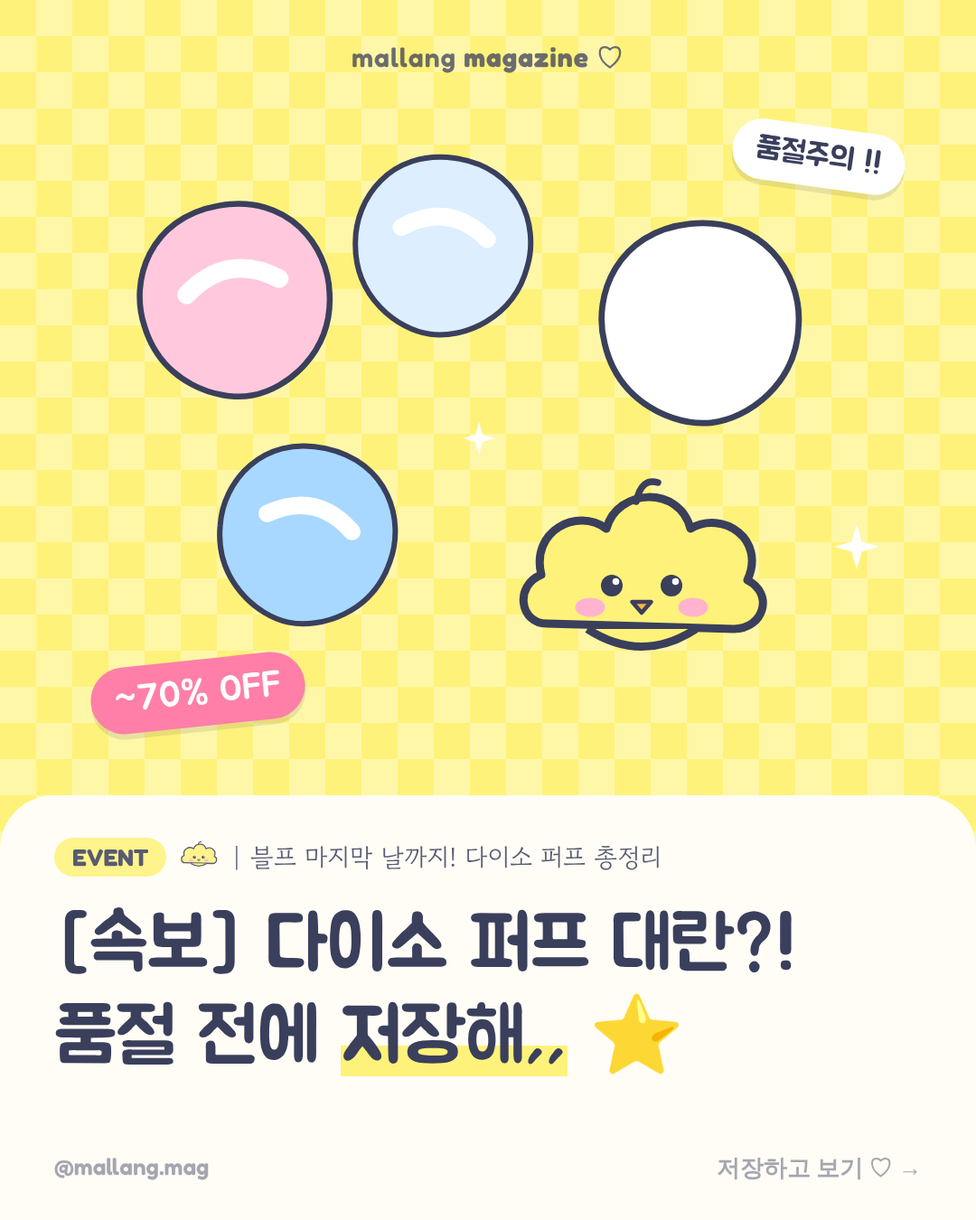
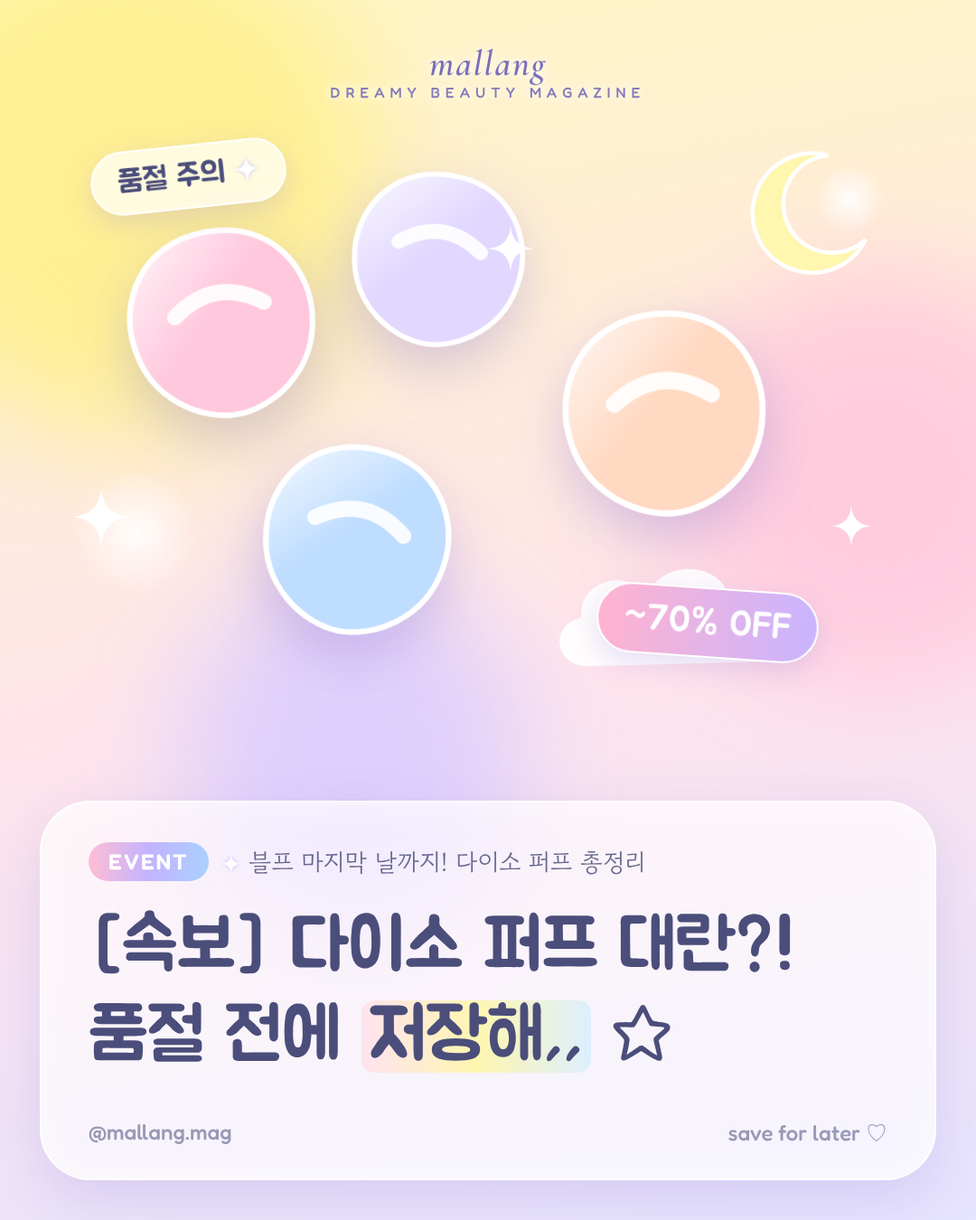
Redesign card news mockups with a dreamy pastel style
Claude-Session: https://claude.ai/code/session_019qCDgrEDAYBakuzNPxY3YF

diff --git a/cute-mag/covers.html b/cute-mag/covers.html
@@ -1,165 +1,180 @@
 <!doctype html>
 <html lang="ko"><head><meta charset="utf-8">
-<link href="https://fonts.googleapis.com/css2?family=Jua&family=Gowun+Dodum&family=Fredoka:wght@500;600;700&display=swap" rel="stylesheet">
+<link href="https://fonts.googleapis.com/css2?family=Jua&family=Gowun+Dodum&family=Cormorant+Garamond:ital,wght@1,500;1,600&family=Fredoka:wght@500;600&display=swap" rel="stylesheet">
 <style>
-:root{--lemon:#FFF27A;--pink:#FFC8DD;--baby:#DCEEFF;--sky:#A8D8FF;--cream:#FFFDF6;--ink:#3A3F5C;}
+:root{--lemon:#FFF27A;--pink:#FFC8DD;--baby:#DCEEFF;--sky:#A8D8FF;--ink:#4B4E7A;--lilac:#D9CCFF}
 *{box-sizing:border-box;margin:0;padding:0}
 body{background:#eee;font-family:'Gowun Dodum',sans-serif;color:var(--ink)}
 .card{width:1080px;height:1350px;position:relative;overflow:hidden;margin-bottom:20px}
-.logo{position:absolute;top:44px;left:0;right:0;text-align:center;font-family:'Fredoka';font-weight:600;font-size:30px;letter-spacing:1px;color:var(--ink);opacity:.75}
-.logo b{font-weight:700}
-.stage{position:absolute;top:110px;left:40px;right:40px;height:760px}
-.bottom{position:absolute;left:0;right:0;bottom:0;height:470px;background:var(--cream);padding:46px 60px 0;border-top-left-radius:60px;border-top-right-radius:60px}
-.meta{display:flex;align-items:center;gap:14px;font-size:28px;margin-bottom:26px;opacity:.85}
-.tag{font-family:'Fredoka';font-weight:700;font-size:26px;padding:6px 20px;border-radius:999px;color:var(--ink)}
-.mini{width:44px;height:44px}
-h1{font-family:'Jua';font-weight:400;font-size:84px;line-height:1.22;letter-spacing:-1px}
-h1 .hl{background:linear-gradient(transparent 60%,var(--lemon) 60%)}
-.deco{position:absolute;font-family:'Fredoka'}
-.dots{background-image:radial-gradient(rgba(255,255,255,.75) 3px,transparent 3.5px);background-size:44px 44px}
-.check{background-image:linear-gradient(45deg,rgba(255,255,255,.35) 25%,transparent 25%,transparent 75%,rgba(255,255,255,.35) 75%),linear-gradient(45deg,rgba(255,255,255,.35) 25%,transparent 25%,transparent 75%,rgba(255,255,255,.35) 75%);background-size:80px 80px;background-position:0 0,40px 40px}
-.sticker{position:absolute;background:#fff;border-radius:999px;padding:12px 26px;font-family:'Jua';font-size:34px;box-shadow:0 6px 0 rgba(58,63,92,.12)}
-.ph{position:absolute;bottom:30px;right:40px;font-size:20px;opacity:.45}
-.board{width:1080px;height:1350px;background:var(--cream);padding:70px;position:relative}
-.board h2{font-family:'Jua';font-size:64px;margin-bottom:10px}
-.board p.sub{font-size:28px;opacity:.7;margin-bottom:50px}
-.sw{display:grid;grid-template-columns:repeat(3,1fr);gap:26px;margin-bottom:60px}
-.sw div{height:190px;border-radius:36px;padding:24px;display:flex;flex-direction:column;justify-content:flex-end;font-size:26px;border:2px solid rgba(58,63,92,.08)}
-.sw b{font-family:'Jua';font-weight:400;font-size:34px}
-.hls{display:flex;justify-content:space-between}
-.hl-i{text-align:center;font-size:28px}
-.hl-i .ring{width:170px;height:170px;border-radius:50%;border:5px solid #e6e6ee;display:flex;align-items:center;justify-content:center;margin-bottom:14px}
-.hl-i .in{width:146px;height:146px;border-radius:50%;display:flex;align-items:center;justify-content:center}
+.orb{position:absolute;border-radius:50%;filter:blur(60px);opacity:.85}
+.bokeh{position:absolute;border-radius:50%;background:radial-gradient(circle,rgba(255,255,255,.9),rgba(255,255,255,0) 70%)}
+.logo{position:absolute;top:46px;left:0;right:0;text-align:center;font-family:'Cormorant Garamond';font-style:italic;font-weight:600;font-size:40px;letter-spacing:2px;color:#7A6FB8;text-shadow:0 0 20px #fff,0 0 8px #fff}
+.logo small{display:block;font-family:'Fredoka';font-style:normal;font-weight:500;font-size:16px;letter-spacing:6px;opacity:.9;margin-top:-2px}
+.stage{position:absolute;top:140px;left:40px;right:40px;height:720px}
+.stage svg.p{position:absolute;filter:drop-shadow(0 24px 30px rgba(140,120,210,.35))}
+.glass{position:absolute;left:44px;right:44px;bottom:44px;height:420px;border-radius:56px;background:rgba(255,255,255,.58);backdrop-filter:blur(24px);border:2px solid rgba(255,255,255,.9);box-shadow:0 20px 60px rgba(150,130,220,.25), inset 0 0 40px rgba(255,255,255,.6);padding:44px 52px}
+.meta{display:flex;align-items:center;gap:14px;font-size:27px;margin-bottom:24px;opacity:.85}
+.tag{font-family:'Fredoka';font-weight:600;font-size:24px;letter-spacing:2px;padding:7px 22px;border-radius:999px;color:#fff;background:linear-gradient(90deg,#FFB3CF,#B9A8FF,#9CCBFF)}
+h1{font-family:'Jua';font-weight:400;font-size:80px;line-height:1.24;letter-spacing:-1px;color:var(--ink)}
+h1 .hl{background:linear-gradient(90deg,#FFE3F0,#FFF6B0,#DDEFFF);border-radius:14px;padding:0 8px}
+.foot{position:absolute;bottom:34px;left:52px;right:52px;display:flex;justify-content:space-between;font-family:'Fredoka';font-weight:500;font-size:24px;opacity:.55}
+.chip{position:absolute;padding:12px 28px;border-radius:999px;font-family:'Jua';font-size:34px;color:var(--ink);background:rgba(255,255,255,.7);border:2px solid #fff;backdrop-filter:blur(8px);box-shadow:0 10px 30px rgba(150,130,220,.25)}
+.tw{position:absolute}
+/* inner page */
+.row{display:flex;gap:30px;align-items:center;padding:26px 30px;border-radius:40px;background:rgba(255,255,255,.6);border:2px solid #fff;margin-bottom:24px;box-shadow:0 10px 30px rgba(150,130,220,.18)}
+.thumb{width:170px;height:170px;border-radius:34px;display:flex;align-items:center;justify-content:center;flex:none}
+.row h3{font-family:'Jua';font-weight:400;font-size:42px;margin-bottom:6px}
+.row .price{font-family:'Fredoka';font-weight:600;font-size:30px;color:#E37AA8}
+.row p{font-size:26px;opacity:.8;margin-top:6px}
 </style></head><body>
 
 <svg width="0" height="0" style="position:absolute">
  <defs>
-  <!-- mascot: 말랑 (lemon cloud chick) -->
-  <symbol id="m" viewBox="0 0 200 180">
-   <path d="M30 120 C10 120 6 92 26 84 C18 52 52 34 74 50 C82 20 128 18 136 50 C160 36 192 58 178 88 C198 98 190 124 168 124 Z" fill="#FFF27A" stroke="#3A3F5C" stroke-width="6" stroke-linejoin="round"/>
-   <path d="M60 124 Q100 150 140 124" fill="#FFF27A" stroke="#3A3F5C" stroke-width="6"/>
-   <circle cx="78" cy="92" r="8" fill="#3A3F5C"/><circle cx="122" cy="92" r="8" fill="#3A3F5C"/>
-   <circle cx="81" cy="89" r="2.5" fill="#fff"/><circle cx="125" cy="89" r="2.5" fill="#fff"/>
-   <path d="M93 104 L100 112 L107 104 Z" fill="#FFB347" stroke="#3A3F5C" stroke-width="3" stroke-linejoin="round"/>
-   <ellipse cx="62" cy="108" rx="11" ry="7" fill="#FFB3CF"/><ellipse cx="138" cy="108" rx="11" ry="7" fill="#FFB3CF"/>
-   <path d="M96 30 Q100 12 112 16" fill="none" stroke="#3A3F5C" stroke-width="5" stroke-linecap="round"/>
-  </symbol>
-  <symbol id="star" viewBox="0 0 40 40"><path d="M20 2 L24 16 L38 20 L24 24 L20 38 L16 24 L2 20 L16 16Z" fill="#fff"/></symbol>
+  <linearGradient id="gloss" x1="0" y1="0" x2="1" y2="1"><stop offset="0" stop-color="#fff" stop-opacity=".85"/><stop offset=".45" stop-color="#fff" stop-opacity="0"/></linearGradient>
+  <linearGradient id="holo" x1="0" y1="0" x2="1" y2="1"><stop offset="0" stop-color="#FFD6EA"/><stop offset=".5" stop-color="#E4DAFF"/><stop offset="1" stop-color="#CFE8FF"/></linearGradient>
+  <symbol id="spark" viewBox="0 0 40 40"><path d="M20 0 C21.5 13 27 18.5 40 20 C27 21.5 21.5 27 20 40 C18.5 27 13 21.5 0 20 C13 18.5 18.5 13 20 0Z" fill="#fff"/></symbol>
+  <symbol id="moon" viewBox="0 0 100 100"><path d="M64 8 A44 44 0 1 0 92 70 A36 36 0 1 1 64 8Z" fill="#FFF6B0" stroke="#fff" stroke-width="3"/></symbol>
+  <symbol id="cloud" viewBox="0 0 220 110"><path d="M40 100 C10 100 6 64 34 58 C30 26 74 14 92 38 C104 6 160 8 164 46 C196 40 214 74 192 96 Z" fill="#fff" opacity=".9"/></symbol>
+  <symbol id="heart" viewBox="0 0 60 54"><path d="M30 52 C10 38 0 28 0 16 C0 6 8 0 16 0 C23 0 28 4 30 9 C32 4 37 0 44 0 C52 0 60 6 60 16 C60 28 50 38 30 52Z" fill="url(#holo)" stroke="#fff" stroke-width="3"/></symbol>
   <symbol id="bow" viewBox="0 0 120 70">
-   <path d="M60 35 C40 5 8 8 10 35 C8 62 40 65 60 35 C80 65 112 62 110 35 C112 8 80 5 60 35Z" fill="#FFC8DD" stroke="#3A3F5C" stroke-width="4"/>
-   <circle cx="60" cy="35" r="10" fill="#FF9CC2" stroke="#3A3F5C" stroke-width="4"/></symbol>
-  <!-- products -->
+   <path d="M60 35 C40 5 8 8 10 35 C8 62 40 65 60 35 C80 65 112 62 110 35 C112 8 80 5 60 35Z" fill="url(#holo)" stroke="#fff" stroke-width="4"/>
+   <circle cx="60" cy="35" r="10" fill="#FFC8DD" stroke="#fff" stroke-width="4"/></symbol>
+  <!-- glossy products (placeholders for real 누끼 photos) -->
   <symbol id="tint" viewBox="0 0 80 260">
-   <rect x="16" y="0" width="48" height="110" rx="16" fill="#FFF" stroke="#3A3F5C" stroke-width="4"/>
-   <rect x="8" y="104" width="64" height="150" rx="18" fill="currentColor" stroke="#3A3F5C" stroke-width="4"/>
-   <rect x="18" y="120" width="10" height="110" rx="5" fill="#fff" opacity=".5"/></symbol>
+   <rect x="16" y="2" width="48" height="108" rx="20" fill="#fff" stroke="#fff" stroke-width="3"/>
+   <rect x="16" y="2" width="48" height="108" rx="20" fill="url(#holo)" opacity=".6"/>
+   <rect x="8" y="104" width="64" height="150" rx="24" fill="currentColor" stroke="#fff" stroke-width="4"/>
+   <rect x="8" y="104" width="64" height="150" rx="24" fill="url(#gloss)"/></symbol>
   <symbol id="cushion" viewBox="0 0 220 220">
-   <circle cx="110" cy="110" r="100" fill="currentColor" stroke="#3A3F5C" stroke-width="5"/>
-   <circle cx="110" cy="110" r="72" fill="#fff" opacity=".6"/>
-   <circle cx="110" cy="110" r="72" fill="none" stroke="#3A3F5C" stroke-width="3" stroke-dasharray="8 8"/></symbol>
+   <circle cx="110" cy="110" r="100" fill="currentColor" stroke="#fff" stroke-width="5"/>
+   <circle cx="110" cy="110" r="100" fill="url(#gloss)"/>
+   <circle cx="110" cy="110" r="70" fill="#fff" opacity=".55"/>
+   <path d="M70 80 Q110 50 150 80" fill="none" stroke="#fff" stroke-width="10" stroke-linecap="round" opacity=".9"/></symbol>
   <symbol id="serum" viewBox="0 0 120 280">
-   <rect x="44" y="0" width="32" height="60" rx="14" fill="#3A3F5C"/>
-   <rect x="38" y="56" width="44" height="26" rx="6" fill="#fff" stroke="#3A3F5C" stroke-width="4"/>
-   <rect x="10" y="80" width="100" height="196" rx="30" fill="currentColor" stroke="#3A3F5C" stroke-width="5"/>
-   <rect x="26" y="140" width="68" height="70" rx="10" fill="#fff" opacity=".8"/></symbol>
+   <rect x="44" y="2" width="32" height="60" rx="16" fill="#fff"/>
+   <rect x="44" y="2" width="32" height="60" rx="16" fill="url(#holo)"/>
+   <rect x="38" y="56" width="44" height="26" rx="8" fill="#fff"/>
+   <rect x="10" y="80" width="100" height="196" rx="40" fill="currentColor" stroke="#fff" stroke-width="5" fill-opacity=".85"/>
+   <rect x="10" y="80" width="100" height="196" rx="40" fill="url(#gloss)"/>
+   <rect x="30" y="150" width="60" height="56" rx="14" fill="#fff" opacity=".6"/></symbol>
   <symbol id="jar" viewBox="0 0 220 170">
-   <rect x="20" y="10" width="180" height="50" rx="16" fill="#fff" stroke="#3A3F5C" stroke-width="5"/>
-   <rect x="10" y="56" width="200" height="108" rx="30" fill="currentColor" stroke="#3A3F5C" stroke-width="5"/></symbol>
+   <rect x="20" y="10" width="180" height="50" rx="22" fill="#fff"/><rect x="20" y="10" width="180" height="50" rx="22" fill="url(#holo)" opacity=".7"/>
+   <rect x="10" y="56" width="200" height="108" rx="40" fill="currentColor" stroke="#fff" stroke-width="5"/>
+   <rect x="10" y="56" width="200" height="108" rx="40" fill="url(#gloss)"/></symbol>
   <symbol id="puff" viewBox="0 0 200 200">
-   <path d="M100 20 C160 20 186 70 180 110 C174 160 130 184 100 184 C70 184 26 160 20 110 C14 70 40 20 100 20Z" fill="currentColor" stroke="#3A3F5C" stroke-width="5"/>
-   <path d="M60 90 Q100 60 140 90" fill="none" stroke="#fff" stroke-width="16" stroke-linecap="round"/></symbol>
+   <path d="M100 20 C160 20 186 70 180 110 C174 160 130 184 100 184 C70 184 26 160 20 110 C14 70 40 20 100 20Z" fill="currentColor" stroke="#fff" stroke-width="5"/>
+   <path d="M100 20 C160 20 186 70 180 110 C174 160 130 184 100 184 C70 184 26 160 20 110 C14 70 40 20 100 20Z" fill="url(#gloss)"/>
+   <path d="M60 90 Q100 60 140 90" fill="none" stroke="#fff" stroke-width="14" stroke-linecap="round" opacity=".9"/></symbol>
  </defs>
 </svg>
 
-<!-- 1. BEAUTY (pink) -->
-<div class="card dots" style="background-color:var(--pink)">
- <div class="logo">mallang <b>magazine</b> ♡</div>
+<!-- 1. BEAUTY : pink-lilac dream -->
+<div class="card" style="background:linear-gradient(160deg,#FFE0EE 0%,#F3DDFF 45%,#DDEBFF 100%)">
+ <div class="orb" style="width:520px;height:520px;left:-120px;top:120px;background:#FFC8DD"></div>
+ <div class="orb" style="width:460px;height:460px;right:-100px;top:-60px;background:#D9CCFF"></div>
+ <div class="orb" style="width:420px;height:420px;right:-60px;top:560px;background:#BFE0FF"></div>
+ <div class="bokeh" style="width:120px;height:120px;left:860px;top:300px"></div>
+ <div class="bokeh" style="width:70px;height:70px;left:120px;top:90px"></div>
+ <div class="logo">mallang<small>DREAMY BEAUTY MAGAZINE</small></div>
  <div class="stage">
-  <svg style="position:absolute;left:120px;top:110px;width:110px;height:360px;color:#FF7FA8;transform:rotate(-12deg)"><use href="#tint"/></svg>
-  <svg style="position:absolute;left:250px;top:70px;width:110px;height:360px;color:#FFA3BF;transform:rotate(-4deg)"><use href="#tint"/></svg>
-  <svg style="position:absolute;left:380px;top:60px;width:110px;height:360px;color:#F5B8A0;transform:rotate(4deg)"><use href="#tint"/></svg>
-  <svg style="position:absolute;left:510px;top:80px;width:110px;height:360px;color:#E88FA0;transform:rotate(11deg)"><use href="#tint"/></svg>
-  <svg style="position:absolute;left:650px;top:300px;width:300px;height:300px;color:var(--sky)"><use href="#cushion"/></svg>
-  <svg style="position:absolute;left:60px;top:470px;width:250px;height:200px;color:var(--lemon)"><use href="#jar"/></svg>
-  <svg style="position:absolute;left:760px;top:40px;width:180px;height:110px;transform:rotate(14deg)"><use href="#bow"/></svg>
-  <svg style="position:absolute;left:640px;top:180px;width:46px"><use href="#star"/></svg>
-  <svg style="position:absolute;left:60px;top:40px;width:60px;height:60px"><use href="#star"/></svg>
-  <svg style="position:absolute;left:360px;top:500px;width:230px;height:210px"><use href="#m"/></svg>
-  <div class="sticker" style="left:640px;top:630px;transform:rotate(-4deg)">1+1 기획 ♡</div>
+  <svg class="tw" style="left:40px;top:470px;width:260px;height:130px"><use href="#cloud"/></svg>
+  <svg class="tw" style="left:720px;top:520px;width:240px;height:120px"><use href="#cloud"/></svg>
+  <svg class="p" style="left:170px;top:90px;width:110px;height:360px;color:#FF9EC4;transform:rotate(-14deg)"><use href="#tint"/></svg>
+  <svg class="p" style="left:300px;top:40px;width:110px;height:360px;color:#FFB8D2;transform:rotate(-5deg)"><use href="#tint"/></svg>
+  <svg class="p" style="left:430px;top:30px;width:110px;height:360px;color:#C9B4FF;transform:rotate(4deg)"><use href="#tint"/></svg>
+  <svg class="p" style="left:560px;top:60px;width:110px;height:360px;color:#F7A8B8;transform:rotate(13deg)"><use href="#tint"/></svg>
+  <svg class="p" style="left:690px;top:250px;width:260px;height:260px;color:#BFDDFF"><use href="#cushion"/></svg>
+  <svg class="p" style="left:110px;top:400px;width:230px;height:180px;color:#FFF3A8"><use href="#jar"/></svg>
+  <svg class="tw" style="left:780px;top:40px;width:170px;height:100px;transform:rotate(14deg)"><use href="#bow"/></svg>
+  <svg class="tw" style="left:60px;top:30px;width:70px;height:70px"><use href="#spark"/></svg>
+  <svg class="tw" style="left:660px;top:170px;width:40px;height:40px"><use href="#spark"/></svg>
+  <svg class="tw" style="left:420px;top:450px;width:56px;height:56px"><use href="#spark"/></svg>
+  <svg class="tw" style="left:520px;top:520px;width:70px;height:62px;transform:rotate(-12deg)"><use href="#heart"/></svg>
+  <div class="chip" style="left:470px;top:600px;transform:rotate(-3deg)">1+1 기획 <svg style="width:.8em;height:.8em;vertical-align:-0.05em;filter:drop-shadow(0 0 2px #C9B4FF)"><use href="#spark"/></svg></div>
  </div>
- <div class="bottom">
-  <div class="meta"><span class="tag" style="background:var(--pink)">BEAUTY</span><svg class="mini"><use href="#m"/></svg><span>| 12월 첫째 주 올영 신상 립만 모았어!</span></div>
+ <div class="glass">
+  <div class="meta"><span class="tag">BEAUTY</span><span><svg style="width:.8em;height:.8em;vertical-align:-0.05em;filter:drop-shadow(0 0 2px #C9B4FF)"><use href="#spark"/></svg> 12월 첫째 주 올영 신상 립만 모았어</span></div>
   <h1>이거 안 사면 손해,,♡<br>올영 겨울 신상 <span class="hl">립.zip</span></h1>
-  <div style="position:absolute;bottom:40px;left:60px;right:60px;display:flex;justify-content:space-between;font-family:Fredoka;font-weight:600;font-size:26px;opacity:.45"><span>@mallang.mag</span><span>저장하고 보기 ♡ →</span></div>
+  <div class="foot"><span>@mallang.mag</span><span>save for later ♡</span></div>
  </div>
 </div>
 
-<!-- 2. EVENT (lemon) -->
-<div class="card check" style="background-color:var(--lemon)">
- <div class="logo">mallang <b>magazine</b> ♡</div>
+<!-- 2. EVENT : lemon-peach dream -->
+<div class="card" style="background:linear-gradient(170deg,#FFF6C2 0%,#FFE4EC 55%,#E6E4FF 100%)">
+ <div class="orb" style="width:560px;height:560px;left:-140px;top:-80px;background:#FFF08A"></div>
+ <div class="orb" style="width:460px;height:460px;right:-120px;top:300px;background:#FFC8DD"></div>
+ <div class="orb" style="width:380px;height:380px;left:200px;top:640px;background:#D9CCFF"></div>
+ <div class="bokeh" style="width:140px;height:140px;left:80px;top:520px"></div>
+ <div class="bokeh" style="width:80px;height:80px;left:900px;top:180px"></div>
+ <div class="logo">mallang<small>DREAMY BEAUTY MAGAZINE</small></div>
  <div class="stage">
-  <svg style="position:absolute;left:90px;top:90px;width:260px;height:260px;color:var(--pink);transform:rotate(-10deg)"><use href="#puff"/></svg>
-  <svg style="position:absolute;left:330px;top:40px;width:240px;height:240px;color:var(--baby);transform:rotate(8deg)"><use href="#puff"/></svg>
-  <svg style="position:absolute;left:600px;top:110px;width:270px;height:270px;color:#fff;transform:rotate(-6deg)"><use href="#puff"/></svg>
-  <svg style="position:absolute;left:180px;top:360px;width:240px;height:240px;color:var(--sky);transform:rotate(12deg)"><use href="#puff"/></svg>
-  <svg style="position:absolute;left:520px;top:400px;width:300px;height:270px"><use href="#m"/></svg>
-  <div class="sticker" style="left:60px;top:620px;background:#FF7FA8;color:#fff;font-size:40px;transform:rotate(-6deg)">~70% OFF</div>
-  <div class="sticker" style="left:770px;top:30px;transform:rotate(8deg)">품절주의 !!</div>
-  <svg style="position:absolute;left:880px;top:420px;width:56px"><use href="#star"/></svg>
-  <svg style="position:absolute;left:470px;top:300px;width:40px"><use href="#star"/></svg>
+  <svg class="tw" style="left:780px;top:20px;width:150px;height:150px"><use href="#moon"/></svg>
+  <svg class="p" style="left:80px;top:90px;width:250px;height:250px;color:#FFC8DD;transform:rotate(-10deg)"><use href="#puff"/></svg>
+  <svg class="p" style="left:330px;top:30px;width:230px;height:230px;color:#E2D8FF;transform:rotate(8deg)"><use href="#puff"/></svg>
+  <svg class="p" style="left:560px;top:180px;width:270px;height:270px;color:#FFD9C2;transform:rotate(-6deg)"><use href="#puff"/></svg>
+  <svg class="p" style="left:230px;top:330px;width:250px;height:250px;color:#BFDDFF;transform:rotate(12deg)"><use href="#puff"/></svg>
+  <svg class="tw" style="left:560px;top:470px;width:280px;height:140px"><use href="#cloud"/></svg>
+  <svg class="tw" style="left:500px;top:110px;width:50px;height:50px"><use href="#spark"/></svg>
+  <svg class="tw" style="left:40px;top:400px;width:64px;height:64px"><use href="#spark"/></svg>
+  <svg class="tw" style="left:880px;top:420px;width:44px;height:44px"><use href="#spark"/></svg>
+  <div class="chip" style="left:620px;top:510px;transform:rotate(4deg);background:linear-gradient(90deg,#FFB3CF,#C9B4FF);color:#fff;font-size:40px">~70% OFF</div>
+  <div class="chip" style="left:60px;top:20px;transform:rotate(-6deg)">품절 주의 <svg style="width:.8em;height:.8em;vertical-align:-0.05em;filter:drop-shadow(0 0 2px #C9B4FF)"><use href="#spark"/></svg></div>
  </div>
- <div class="bottom">
-  <div class="meta"><span class="tag" style="background:var(--lemon)">EVENT</span><svg class="mini"><use href="#m"/></svg><span>| 블프 마지막 날까지! 다이소 퍼프 총정리</span></div>
-  <h1>[속보] 다이소 퍼프 대란?!<br>품절 전에 <span class="hl">저장해,,</span> ⭐</h1>
-  <div style="position:absolute;bottom:40px;left:60px;right:60px;display:flex;justify-content:space-between;font-family:Fredoka;font-weight:600;font-size:26px;opacity:.45"><span>@mallang.mag</span><span>저장하고 보기 ♡ →</span></div>
+ <div class="glass">
+  <div class="meta"><span class="tag">EVENT</span><span><svg style="width:.8em;height:.8em;vertical-align:-0.05em;filter:drop-shadow(0 0 2px #C9B4FF)"><use href="#spark"/></svg> 블프 마지막 날까지! 다이소 퍼프 총정리</span></div>
+  <h1>[속보] 다이소 퍼프 대란?!<br>품절 전에 <span class="hl">저장해,,</span> ☆</h1>
+  <div class="foot"><span>@mallang.mag</span><span>save for later ♡</span></div>
  </div>
 </div>
 
-<!-- 3. INFO (baby/sky blue) -->
-<div class="card dots" style="background:linear-gradient(180deg,var(--sky),var(--baby))">
- <div class="logo">mallang <b>magazine</b> ♡</div>
+<!-- 3. INFO : sky-baby dream -->
+<div class="card" style="background:linear-gradient(180deg,#BFE2FF 0%,#DCEEFF 50%,#F3E6FF 100%)">
+ <div class="orb" style="width:500px;height:500px;left:-120px;top:-40px;background:#A8D8FF"></div>
+ <div class="orb" style="width:420px;height:420px;right:-80px;top:120px;background:#E6D6FF"></div>
+ <div class="orb" style="width:400px;height:400px;left:300px;top:600px;background:#FFD6E8"></div>
+ <div class="bokeh" style="width:110px;height:110px;left:920px;top:560px"></div>
+ <div class="bokeh" style="width:60px;height:60px;left:300px;top:120px"></div>
+ <div class="logo">mallang<small>DREAMY BEAUTY MAGAZINE</small></div>
  <div class="stage">
-  <svg style="position:absolute;left:80px;top:60px;width:150px;height:350px;color:var(--pink);transform:rotate(-8deg)"><use href="#serum"/></svg>
-  <svg style="position:absolute;left:250px;top:120px;width:260px;height:260px;color:var(--lemon)"><use href="#cushion"/></svg>
-  <svg style="position:absolute;left:560px;top:50px;width:150px;height:350px;color:#fff;transform:rotate(6deg)"><use href="#serum"/></svg>
-  <svg style="position:absolute;left:740px;top:170px;width:110px;height:330px;color:#FF7FA8;transform:rotate(14deg)"><use href="#tint"/></svg>
-  <svg style="position:absolute;left:90px;top:440px;width:260px;height:200px;color:var(--pink)"><use href="#jar"/></svg>
-  <svg style="position:absolute;left:640px;top:470px;width:230px;height:230px;color:var(--lemon)"><use href="#puff"/></svg>
-  <svg style="position:absolute;left:390px;top:440px;width:240px;height:220px"><use href="#m"/></svg>
-  <svg style="position:absolute;left:420px;top:20px;width:150px;height:90px;transform:rotate(-10deg)"><use href="#bow"/></svg>
-  <svg style="position:absolute;left:900px;top:60px;width:56px"><use href="#star"/></svg>
-  <svg style="position:absolute;left:40px;top:400px;width:40px"><use href="#star"/></svg>
+  <svg class="tw" style="left:0px;top:500px;width:300px;height:150px"><use href="#cloud"/></svg>
+  <svg class="tw" style="left:700px;top:540px;width:280px;height:140px"><use href="#cloud"/></svg>
+  <svg class="p" style="left:100px;top:50px;width:150px;height:350px;color:#FFC8DD;transform:rotate(-8deg)"><use href="#serum"/></svg>
+  <svg class="p" style="left:290px;top:120px;width:240px;height:240px;color:#FFF3A8"><use href="#cushion"/></svg>
+  <svg class="p" style="left:570px;top:40px;width:150px;height:350px;color:#E4DAFF;transform:rotate(6deg)"><use href="#serum"/></svg>
+  <svg class="p" style="left:760px;top:150px;width:110px;height:330px;color:#FF9EC4;transform:rotate(14deg)"><use href="#tint"/></svg>
+  <svg class="p" style="left:130px;top:400px;width:250px;height:190px;color:#FFD6E8"><use href="#jar"/></svg>
+  <svg class="p" style="left:560px;top:410px;width:200px;height:200px;color:#FFF3A8"><use href="#puff"/></svg>
+  <svg class="tw" style="left:400px;top:400px;width:120px;height:120px"><use href="#moon"/></svg>
+  <svg class="tw" style="left:420px;top:10px;width:150px;height:90px;transform:rotate(-10deg)"><use href="#bow"/></svg>
+  <svg class="tw" style="left:900px;top:40px;width:60px;height:60px"><use href="#spark"/></svg>
+  <svg class="tw" style="left:40px;top:20px;width:44px;height:44px"><use href="#spark"/></svg>
+  <svg class="tw" style="left:470px;top:560px;width:50px;height:50px"><use href="#spark"/></svg>
  </div>
- <div class="bottom">
-  <div class="meta"><span class="tag" style="background:var(--baby)">정보말랑</span><svg class="mini"><use href="#m"/></svg><span>| 11월 넷째 주 귀여운 뷰티템 모음!</span></div>
-  <h1>이번 주 말랑한 템.zip<br>파우치 속 <span class="hl">귀요미들</span> ♡</h1>
-  <div style="position:absolute;bottom:40px;left:60px;right:60px;display:flex;justify-content:space-between;font-family:Fredoka;font-weight:600;font-size:26px;opacity:.45"><span>@mallang.mag</span><span>저장하고 보기 ♡ →</span></div>
+ <div class="glass">
+  <div class="meta"><span class="tag">INFO</span><span><svg style="width:.8em;height:.8em;vertical-align:-0.05em;filter:drop-shadow(0 0 2px #C9B4FF)"><use href="#spark"/></svg> 11월 넷째 주 몽글몽글 뷰티템 모음</span></div>
+  <h1>이번 주 말랑한 템.zip<br>파우치 속 <span class="hl">꿈결템</span> ♡</h1>
+  <div class="foot"><span>@mallang.mag</span><span>save for later ♡</span></div>
  </div>
 </div>
 
-<!-- 4. BRAND BOARD -->
-<div class="board">
- <h2>mallang magazine 무드보드</h2>
- <p class="sub">계정 이름 · 마스코트는 임시예요. 바꾸면 전체 템플릿에 그대로 적용돼요.</p>
- <div class="sw">
-  <div style="background:var(--lemon)"><b>레몬</b>#FFF27A · 이벤트</div>
-  <div style="background:var(--pink)"><b>밀크 핑크</b>#FFC8DD · 뷰티</div>
-  <div style="background:var(--sky)"><b>스카이블루</b>#A8D8FF · 패션</div>
-  <div style="background:var(--baby)"><b>베이비블루</b>#DCEEFF · 정보/굿즈</div>
-  <div style="background:var(--cream)"><b>크림 화이트</b>#FFFDF6 · 기본 배경</div>
-  <div style="background:var(--ink);color:#fff"><b>네이비그레이</b>#3A3F5C · 글자</div>
+<!-- 4. INNER PAGE -->
+<div class="card" style="background:linear-gradient(160deg,#FFE0EE 0%,#F3DDFF 45%,#DDEBFF 100%)">
+ <div class="orb" style="width:500px;height:500px;left:-160px;top:400px;background:#FFC8DD"></div>
+ <div class="orb" style="width:420px;height:420px;right:-120px;top:-80px;background:#D9CCFF"></div>
+ <div class="bokeh" style="width:100px;height:100px;left:900px;top:1100px"></div>
+ <div class="logo" style="top:40px;font-size:32px">mallang<small>02 / 06</small></div>
+ <div style="position:absolute;top:150px;left:60px;right:60px">
+  <div style="display:flex;align-items:center;gap:14px;margin-bottom:30px"><span class="tag">BEAUTY</span><span style="font-family:Jua;font-size:46px">말랑 PICK 립 4종 <svg style="width:.8em;height:.8em;vertical-align:-0.05em;filter:drop-shadow(0 0 2px #C9B4FF)"><use href="#spark"/></svg></span></div>
+  <div class="row"><div class="thumb" style="background:#FFE3F0"><svg width="70" height="150" style="color:#FF9EC4;filter:drop-shadow(0 10px 14px rgba(140,120,210,.3))"><use href="#tint"/></svg></div>
+   <div><h3>01. 딸기우유 글로스 틴트</h3><div class="price">₩12,900 → ₩9,900</div><p>물광 + 은은한 핑크, 겨울 입술에 딱 ♡</p></div></div>
+  <div class="row"><div class="thumb" style="background:#EFE8FF"><svg width="70" height="150" style="color:#C9B4FF;filter:drop-shadow(0 10px 14px rgba(140,120,210,.3))"><use href="#tint"/></svg></div>
+   <div><h3>02. 라벤더 블러 틴트</h3><div class="price">₩14,000 · 1+1</div><p>쿨톤 요정 컬러, 보송하게 블러 처리</p></div></div>
+  <div class="row"><div class="thumb" style="background:#FFF6C8"><svg width="70" height="150" style="color:#F7C08A;filter:drop-shadow(0 10px 14px rgba(140,120,210,.3))"><use href="#tint"/></svg></div>
+   <div><h3>03. 꿀자몽 립밤</h3><div class="price">₩8,500</div><p>각질 없는 촉촉함, 데일리 베이스로</p></div></div>
+  <div class="row"><div class="thumb" style="background:#E2F0FF"><svg width="70" height="150" style="color:#F7A8B8;filter:drop-shadow(0 10px 14px rgba(140,120,210,.3))"><use href="#tint"/></svg></div>
+   <div><h3>04. 구름 무드 벨벳 립</h3><div class="price">₩15,000 → ₩11,200</div><p>말린 장미 컬러, 몽환 메이크업 완성</p></div></div>
  </div>
- <h2 style="font-size:44px;margin-bottom:30px">하이라이트 아이콘</h2>
- <div class="hls">
-  <div class="hl-i"><div class="ring"><div class="in" style="background:var(--pink)"><svg width="110" height="100"><use href="#m"/></svg></div></div>뷰티</div>
-  <div class="hl-i"><div class="ring"><div class="in" style="background:var(--lemon)"><svg width="110" height="100"><use href="#m"/></svg></div></div>이벤트</div>
-  <div class="hl-i"><div class="ring"><div class="in" style="background:var(--sky)"><svg width="110" height="100"><use href="#m"/></svg></div></div>패션</div>
-  <div class="hl-i"><div class="ring"><div class="in" style="background:var(--baby)"><svg width="110" height="100"><use href="#m"/></svg></div></div>정보말랑</div>
-  <div class="hl-i"><div class="ring"><div class="in" style="background:#fff"><svg width="110" height="100"><use href="#m"/></svg></div></div>1분 소개</div>
- </div>
- <h2 style="font-size:44px;margin:60px 0 20px">폰트</h2>
- <p style="font-family:'Jua';font-size:54px">제목은 주아체 — 이번 주 귀여운 템.zip ♡</p>
- <p style="font-size:32px;margin-top:14px">본문은 고운돋움 — 가격, 용량, 한 줄 후기처럼 정보가 들어가는 곳</p>
- <p style="font-family:'Fredoka';font-weight:600;font-size:36px;margin-top:14px">Logo · Tag : Fredoka — BEAUTY · EVENT</p>
+ <div class="foot" style="left:60px;right:60px">
+  <span>* 가격은 올리브영 온라인 기준</span><span>@mallang.mag</span></div>
 </div>
 </body></html>
